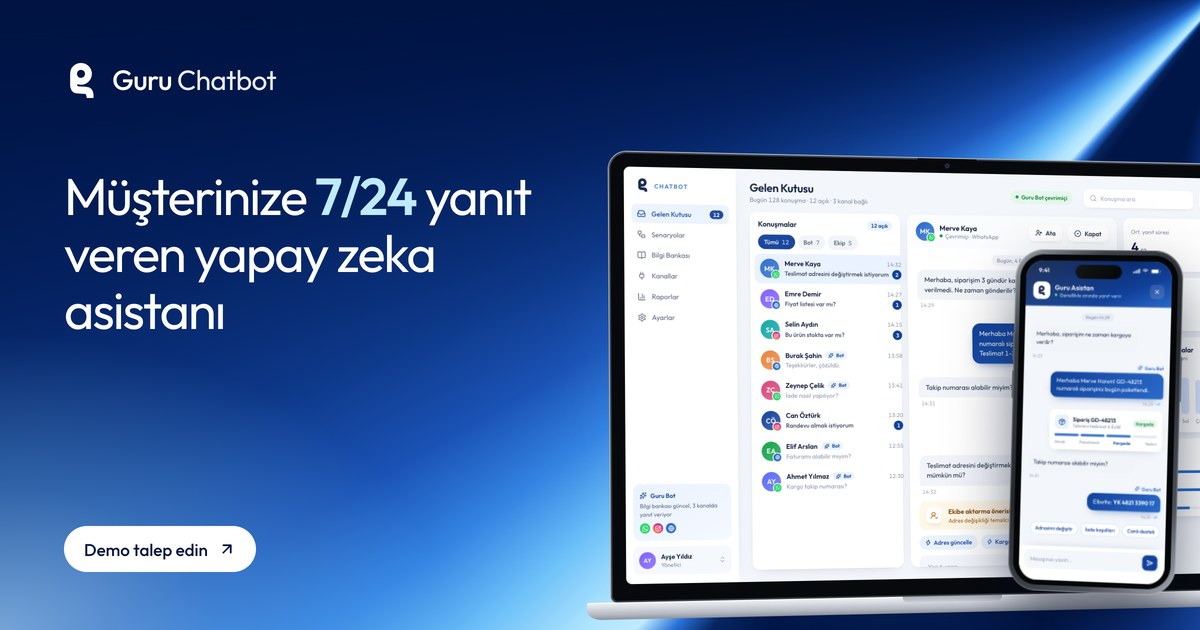
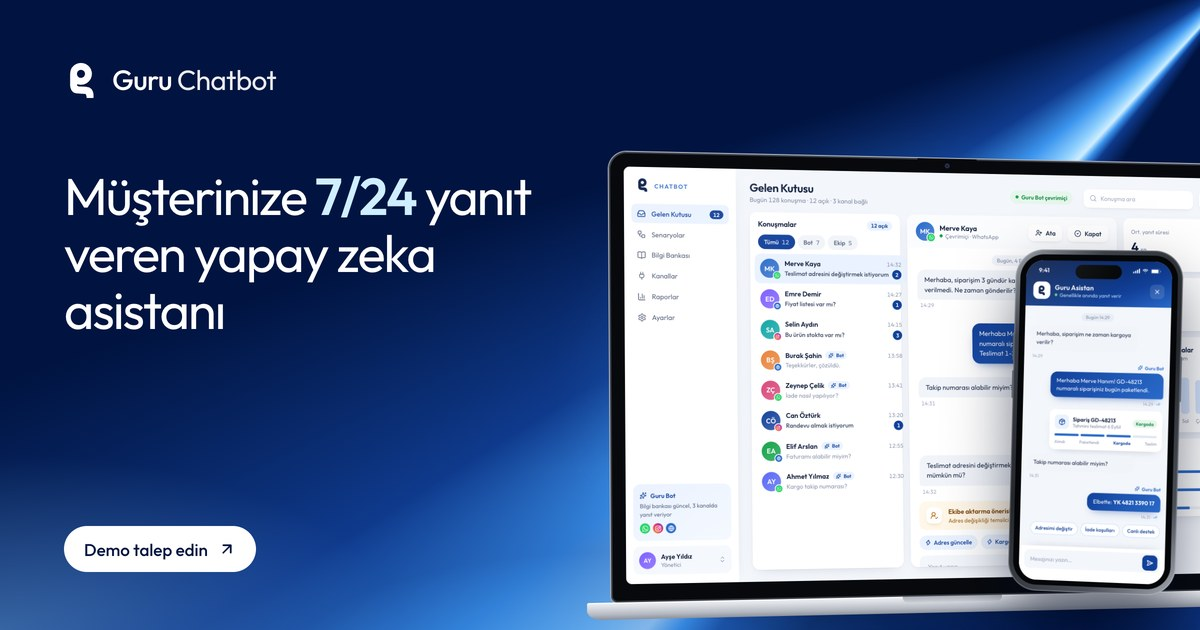
Görseller v4: App Store kapakları, ürüne özgü tonlar, video kapakları
- Her ürün için App Store tarzı dikey kapak (4:5): ana sayfa ürün kartları
  ve ürün sayfasındaki Diğer Ürünlerimiz / Pakete Dahil kartlarında
- Panelde Ürünler > Kapak görseli alanı; ilk Postgres geçişi yeniden üretildi
- Her ürünün kendi tonu (Chatbot mavi, CRM indigo, Operation turkuaz,
  Business lacivert): giriş, özellik, paylaşım görselleri ve kapaklar
- Chatbot gelen kutusu görseli yeniden: kartlar içeriğin üstüne binmiyor
- Business genel bakışta gösterge kendi yerinden kalkıyor; pano kırpımları
  daha büyük ve okunur; avatar harfleri ortalandı, kanal rozetleri küçüldü
- Ürün turu videolarına tasarlanmış kapak görselleri

diff --git a/src/migrations/20261008_211700_ilk_kurulum.ts b/src/migrations/20261008_211700_ilk_kurulum.ts
@@ -288,6 +288,7 @@ export async function up({ db, payload, req }: MigrateUpArgs): Promise<void> {
   	"desc" varchar,
   	"screenshot_id" integer,
   	"hero_visual_id" integer,
+  	"cover_id" integer,
   	"og_image_id" integer,
   	"hero_eyebrow" varchar,
   	"hero_headline" varchar,
@@ -447,6 +448,7 @@ export async function up({ db, payload, req }: MigrateUpArgs): Promise<void> {
   	"version_desc" varchar,
   	"version_screenshot_id" integer,
   	"version_hero_visual_id" integer,
+  	"version_cover_id" integer,
   	"version_og_image_id" integer,
   	"version_hero_eyebrow" varchar,
   	"version_hero_headline" varchar,
@@ -857,6 +859,7 @@ export async function up({ db, payload, req }: MigrateUpArgs): Promise<void> {
   ALTER TABLE "products_seo_keywords" ADD CONSTRAINT "products_seo_keywords_parent_id_fk" FOREIGN KEY ("_parent_id") REFERENCES "public"."products"("id") ON DELETE cascade ON UPDATE no action;
   ALTER TABLE "products" ADD CONSTRAINT "products_screenshot_id_media_id_fk" FOREIGN KEY ("screenshot_id") REFERENCES "public"."media"("id") ON DELETE set null ON UPDATE no action;
   ALTER TABLE "products" ADD CONSTRAINT "products_hero_visual_id_media_id_fk" FOREIGN KEY ("hero_visual_id") REFERENCES "public"."media"("id") ON DELETE set null ON UPDATE no action;
+  ALTER TABLE "products" ADD CONSTRAINT "products_cover_id_media_id_fk" FOREIGN KEY ("cover_id") REFERENCES "public"."media"("id") ON DELETE set null ON UPDATE no action;
   ALTER TABLE "products" ADD CONSTRAINT "products_og_image_id_media_id_fk" FOREIGN KEY ("og_image_id") REFERENCES "public"."media"("id") ON DELETE set null ON UPDATE no action;
   ALTER TABLE "products" ADD CONSTRAINT "products_tour_poster_id_media_id_fk" FOREIGN KEY ("tour_poster_id") REFERENCES "public"."media"("id") ON DELETE set null ON UPDATE no action;
   ALTER TABLE "products_rels" ADD CONSTRAINT "products_rels_parent_fk" FOREIGN KEY ("parent_id") REFERENCES "public"."products"("id") ON DELETE cascade ON UPDATE no action;
@@ -879,6 +882,7 @@ export async function up({ db, payload, req }: MigrateUpArgs): Promise<void> {
   ALTER TABLE "_products_v" ADD CONSTRAINT "_products_v_parent_id_products_id_fk" FOREIGN KEY ("parent_id") REFERENCES "public"."products"("id") ON DELETE set null ON UPDATE no action;
   ALTER TABLE "_products_v" ADD CONSTRAINT "_products_v_version_screenshot_id_media_id_fk" FOREIGN KEY ("version_screenshot_id") REFERENCES "public"."media"("id") ON DELETE set null ON UPDATE no action;
   ALTER TABLE "_products_v" ADD CONSTRAINT "_products_v_version_hero_visual_id_media_id_fk" FOREIGN KEY ("version_hero_visual_id") REFERENCES "public"."media"("id") ON DELETE set null ON UPDATE no action;
+  ALTER TABLE "_products_v" ADD CONSTRAINT "_products_v_version_cover_id_media_id_fk" FOREIGN KEY ("version_cover_id") REFERENCES "public"."media"("id") ON DELETE set null ON UPDATE no action;
   ALTER TABLE "_products_v" ADD CONSTRAINT "_products_v_version_og_image_id_media_id_fk" FOREIGN KEY ("version_og_image_id") REFERENCES "public"."media"("id") ON DELETE set null ON UPDATE no action;
   ALTER TABLE "_products_v" ADD CONSTRAINT "_products_v_version_tour_poster_id_media_id_fk" FOREIGN KEY ("version_tour_poster_id") REFERENCES "public"."media"("id") ON DELETE set null ON UPDATE no action;
   ALTER TABLE "_products_v_rels" ADD CONSTRAINT "_products_v_rels_parent_fk" FOREIGN KEY ("parent_id") REFERENCES "public"."_products_v"("id") ON DELETE cascade ON UPDATE no action;
@@ -987,6 +991,7 @@ export async function up({ db, payload, req }: MigrateUpArgs): Promise<void> {
   CREATE INDEX "products_seo_keywords_parent_id_idx" ON "products_seo_keywords" USING btree ("_parent_id");
   CREATE INDEX "products_screenshot_idx" ON "products" USING btree ("screenshot_id");
   CREATE INDEX "products_hero_visual_idx" ON "products" USING btree ("hero_visual_id");
+  CREATE INDEX "products_cover_idx" ON "products" USING btree ("cover_id");
   CREATE INDEX "products_og_image_idx" ON "products" USING btree ("og_image_id");
   CREATE INDEX "products_tour_tour_poster_idx" ON "products" USING btree ("tour_poster_id");
   CREATE UNIQUE INDEX "products_slug_idx" ON "products" USING btree ("slug");
@@ -1029,6 +1034,7 @@ export async function up({ db, payload, req }: MigrateUpArgs): Promise<void> {
   CREATE INDEX "_products_v_parent_idx" ON "_products_v" USING btree ("parent_id");
   CREATE INDEX "_products_v_version_version_screenshot_idx" ON "_products_v" USING btree ("version_screenshot_id");
   CREATE INDEX "_products_v_version_version_hero_visual_idx" ON "_products_v" USING btree ("version_hero_visual_id");
+  CREATE INDEX "_products_v_version_version_cover_idx" ON "_products_v" USING btree ("version_cover_id");
   CREATE INDEX "_products_v_version_version_og_image_idx" ON "_products_v" USING btree ("version_og_image_id");
   CREATE INDEX "_products_v_version_tour_version_tour_poster_idx" ON "_products_v" USING btree ("version_tour_poster_id");
   CREATE INDEX "_products_v_version_version_slug_idx" ON "_products_v" USING btree ("version_slug");

diff --git a/src/lib/product-extras.ts b/src/lib/product-extras.ts
@@ -21,6 +21,8 @@ export type ProductExtras = {
   trust: string[];
   /** Marka kimliğinde ürün görseli (giriş, 4:3) */
   heroVisual: { src: string; alt: string; w: number; h: number };
+  /** App Store tarzı dikey kapak (4:5, ürün kartlarında) */
+  cover: { src: string; alt: string; w: number; h: number };
   /** Sosyal paylaşım görseli (1200x630) */
   ogImage: string;
   /** Ürün turu videosu */
@@ -39,6 +41,7 @@ const V = (slug: string, n: number, alt: string): ShowcaseItem["image"] => ({
   h: 900,
 });
 const hero = (slug: string, alt: string) => ({ src: `/products/visuals/${slug}-hero.webp`, alt, w: 1600, h: 1200 });
+const cover = (slug: string, alt: string) => ({ src: `/products/covers/${slug}.webp`, alt, w: 1200, h: 1500 });
 const video = (slug: string, name: string) => ({
   src: `/video/products/${slug}.mp4`,
   poster: `/video/products/${slug}.jpg`,
@@ -49,6 +52,7 @@ export const productExtras: Record<string, ProductExtras> = {
   "guru-chatbot": {
     trust: ["Standart kurulum aynı gün", "Web, WhatsApp ve Instagram", "Türkçe destek dahil"],
     heroVisual: hero("guru-chatbot", "Guru Chatbot dizüstü ve telefonda: gelen kutusu, web sitesi asistanı ve Guru Bot'un yanıtladığı WhatsApp mesajı"),
+    cover: cover("guru-chatbot", "Guru Chatbot kapağı: “Müşterinize 7/24 anında yanıt” başlığı ve telefonda web sitesi asistanı"),
     ogImage: "/products/og/guru-chatbot.jpg",
     video: video("guru-chatbot", "Guru Chatbot"),
     showcase: [
@@ -111,6 +115,7 @@ export const productExtras: Record<string, ProductExtras> = {
   "guru-crm": {
     trust: ["Temel kurulum bir hafta", "Excel ve CRM verisi aktarımı", "Kayıt sayısında sınır yok"],
     heroVisual: hero("guru-crm", "Guru CRM dizüstü ve telefonda: satış hattı, fırsat ayrıntısı ve kazanılan fırsat bildirimi"),
+    cover: cover("guru-crm", "Guru CRM kapağı: “Her fırsat tek ekranda” başlığı ve telefonda fırsat ayrıntısı"),
     ogImage: "/products/og/guru-crm.jpg",
     video: video("guru-crm", "Guru CRM"),
     showcase: [
@@ -173,6 +178,7 @@ export const productExtras: Record<string, ProductExtras> = {
   "guru-operation": {
     trust: ["İlk gün görev takibiyle başlayın", "Ekip büyüklüğü sınırı yok", "Guru CRM ile bütünleşik"],
     heroVisual: hero("guru-operation", "Guru Operation dizüstü ve telefonda: görev panosu, zaman çizelgesi ve kontrolden geçen görev bildirimi"),
+    cover: cover("guru-operation", "Guru Operation kapağı: “Her iş görünür ve takipte” başlığı ve telefonda günün görevleri"),
     ogImage: "/products/og/guru-operation.jpg",
     video: video("guru-operation", "Guru Operation"),
     showcase: [
@@ -235,6 +241,7 @@ export const productExtras: Record<string, ProductExtras> = {
   "guru-business": {
     trust: ["Üç modül, tek giriş", "İlk modül iki haftada canlıda", "Size atanan müşteri başarı yöneticisi"],
     heroVisual: hero("guru-business", "Guru Business dizüstü ve telefonda: yönetici panosu ve günlük özet bildirimi"),
+    cover: cover("guru-business", "Guru Business kapağı: “İşletmeniz tek panelde” başlığı ve telefonda yönetici özeti"),
     ogImage: "/products/og/guru-business.jpg",
     video: video("guru-business", "Guru Business"),
     bundle: ["guru-chatbot", "guru-crm", "guru-operation"],

diff --git a/src/lib/content.ts b/src/lib/content.ts
@@ -66,6 +66,8 @@ export type ProductView = {
   trust: string[];
   /** Giriş görseli; yoksa ekran görüntüsü */
   heroVisual: WorkImage;
+  /** App Store tarzı dikey kapak (4:5); yoksa giriş görseli */
+  cover: WorkImage;
   /** Paylaşım görseli adresi; yoksa sitenin genel görseli */
   ogImage: string;
   tour: { title: string; src: string; poster: string } | null;
@@ -151,6 +153,7 @@ function extrasView(slug: string, name: string, screenshot: WorkImage) {
     return {
       trust: [],
       heroVisual: screenshot,
+      cover: screenshot,
       ogImage: "/og.jpg",
       tour: null,
       showcase: [],
@@ -162,6 +165,7 @@ function extrasView(slug: string, name: string, screenshot: WorkImage) {
   return {
     trust: x.trust,
     heroVisual: x.heroVisual,
+    cover: x.cover,
     ogImage: x.ogImage,
     tour: { title: x.video.title || `${name} Ürün Turu`, src: x.video.src, poster: x.video.poster },
     showcase: x.showcase,
@@ -224,6 +228,7 @@ function fromProduct(p: Product): ProductView {
     integrations: texts(p.integrations),
     trust: texts(p.hero?.trust),
     heroVisual: toImage(p.heroVisual, `${p.name} paneli`) ?? image,
+    cover: toImage(p.cover, `${p.name} kapağı`) ?? productExtras[p.slug ?? ""]?.cover ?? toImage(p.heroVisual, `${p.name} paneli`) ?? image,
     ogImage: (typeof p.ogImage === "object" && p.ogImage?.url) || productExtras[p.slug ?? ""]?.ogImage || "/og.jpg",
     tour:
       p.tour?.show !== false && p.tour?.videoUrl

diff --git a/src/components/home/ProductsGrid.tsx b/src/components/home/ProductsGrid.tsx
@@ -24,14 +24,14 @@ export async function ProductsGrid({ title, lead }: { title: string; lead: strin
             return (
               <StaggerItem key={p.slug} className="h-full">
                 <Link href={`/urunler/${p.slug}`} className={cn(cardCls, cardHoverCls, "group flex h-full flex-col overflow-hidden")}>
-                  <div className="bg-[#e9eff8] px-4 pt-4">
+                  {/* App Store tarzı dikey kapak (panel: Ürünler > Kapak görseli) */}
+                  <div className="relative aspect-[4/5] overflow-hidden bg-navy">
                     <Image
-                      src={p.image.src}
-                      alt={p.image.alt}
-                      width={p.image.w}
-                      height={p.image.h}
-                      sizes="(min-width: 1024px) 280px, (min-width: 640px) 45vw, 90vw"
-                      className="block h-auto w-full rounded-t-lg shadow-[0_10px_24px_-14px_rgb(1_20_65/0.6)] transition-transform duration-500 group-hover:-translate-y-1"
+                      src={p.cover.src}
+                      alt={p.cover.alt}
+                      fill
+                      sizes="(min-width: 1280px) 290px, (min-width: 1024px) 23vw, (min-width: 640px) 45vw, 90vw"
+                      className="object-cover transition-transform duration-700 ease-out group-hover:scale-[1.03]"
                     />
                   </div>
                   <div className="p-5">

diff --git a/src/components/pages/urunler/ProductSections.tsx b/src/components/pages/urunler/ProductSections.tsx
@@ -247,10 +247,10 @@ export function IncludedGrid({ product }: { product: ProductView }) {
 export function ProductCardLink({ product, cta = "İncele" }: { product: ProductView; cta?: string }) {
   return (
     <Link href={`/urunler/${product.slug}`} className={cn(cardCls, cardHoverCls, "group flex h-full flex-col overflow-hidden")}>
-      <div className="relative aspect-[4/3] overflow-hidden bg-soft">
+      <div className="relative aspect-[4/5] overflow-hidden bg-navy">
         <Image
-          src={product.heroVisual.src}
-          alt=""
+          src={product.cover.src}
+          alt={product.cover.alt}
           fill
           sizes="(min-width: 1024px) 390px, (min-width: 640px) 50vw, 100vw"
           className="object-cover transition-transform duration-700 ease-out group-hover:scale-[1.03]"

diff --git a/src/payload/refresh-product-visuals.ts b/src/payload/refresh-product-visuals.ts
@@ -55,6 +55,13 @@ for (const p of docs) {
   const base = products.find((b) => b.slug === slug);
   if (!x || !base) continue;
   await replace(p.heroVisual, x.heroVisual, stem(x.heroVisual.src));
+  /* Kapak yeni alan: boşsa medyaya eklenip ürüne bağlanır */
+  if (p.cover) await replace(p.cover, x.cover, `${slug}-kapak`, `${slug}-kapak.webp`);
+  else {
+    const doc = await payload.create({ collection: "media", data: { alt: x.cover.alt }, filePath: copyTo(x.cover.src, `${slug}-kapak.webp`) });
+    await payload.update({ collection: "products", id: p.id, data: { cover: doc.id } });
+    updated++;
+  }
   for (const [i, s] of (p.showcase ?? []).entries()) {
     if (x.showcase[i]) await replace(s.image, x.showcase[i].image, stem(x.showcase[i].image.src));
   }

diff --git a/src/payload/collections/Products.ts b/src/payload/collections/Products.ts
@@ -65,6 +65,13 @@ export const Products: CollectionConfig = {
                   admin: { description: "Ürün sayfasının girişinde, marka ışık yelpazesiyle (4:3, 1600x1200)." },
                 },
                 {
+                  name: "cover",
+                  type: "upload",
+                  relationTo: "media",
+                  label: "Kapak görseli",
+                  admin: { description: "Ana sayfa ve ürün kartlarındaki App Store tarzı dikey kapak (4:5, 1200x1500)." },
+                },
+                {
                   name: "ogImage",
                   type: "upload",
                   relationTo: "media",

diff --git a/src/payload-types.ts b/src/payload-types.ts
@@ -397,6 +397,10 @@ export interface Product {
    */
   heroVisual?: (number | null) | Media;
   /**
+   * Ana sayfa ve ürün kartlarındaki App Store tarzı dikey kapak (4:5, 1200x1500).
+   */
+  cover?: (number | null) | Media;
+  /**
    * Sosyal medyada paylaşılınca görünen görsel (1200x630). Boşsa ürünün hazır paylaşım görseli kullanılır.
    */
   ogImage?: (number | null) | Media;
@@ -1106,6 +1110,7 @@ export interface ProductsSelect<T extends boolean = true> {
       };
   screenshot?: T;
   heroVisual?: T;
+  cover?: T;
   ogImage?: T;
   hero?:
     | T

diff --git a/src/migrations/index.ts b/src/migrations/index.ts
@@ -1,9 +1,9 @@
-import * as migration_20261008_084914_ilk_kurulum from './20261008_084914_ilk_kurulum';
+import * as migration_20261008_211700_ilk_kurulum from './20261008_211700_ilk_kurulum';
 
 export const migrations = [
   {
-    up: migration_20261008_084914_ilk_kurulum.up,
-    down: migration_20261008_084914_ilk_kurulum.down,
-    name: '20261008_084914_ilk_kurulum'
+    up: migration_20261008_211700_ilk_kurulum.up,
+    down: migration_20261008_211700_ilk_kurulum.down,
+    name: '20261008_211700_ilk_kurulum'
   },
 ];

diff --git a/src/payload/product-extras-data.ts b/src/payload/product-extras-data.ts
@@ -23,6 +23,7 @@ export async function productExtrasData(slug: string, mediaFor: Upload, idBySlug
   }
   return {
     heroVisual: await mediaFor({ src: x.heroVisual.src, alt: x.heroVisual.alt }),
+    cover: await mediaFor({ src: x.cover.src, alt: x.cover.alt }),
     /* Paylaşım görseli yüklenmez: medya webp'ye çevirir; varsayılan hazır jpg kullanılır */
     trust: rows(x.trust),
     tour: { show: true, title: x.video.title, videoUrl: x.video.src },

diff --git a/tools/gorsel-studyo/export.py b/tools/gorsel-studyo/export.py
@@ -6,9 +6,13 @@ HERE = os.path.dirname(os.path.abspath(__file__))
 O = os.path.join(HERE, "out")
 P = os.path.join(HERE, "..", "..", "public", "products")
 os.makedirs(os.path.join(P, "screens"), exist_ok=True)
+os.makedirs(os.path.join(P, "covers"), exist_ok=True)
+V = os.path.join(HERE, "..", "..", "public", "video", "products")
 for slug in ["guru-chatbot", "guru-crm", "guru-operation", "guru-business"]:
     for n, size in [("hero", (1600, 1200)), ("1", (1200, 900)), ("2", (1200, 900)), ("3", (1200, 900))]:
         Image.open(f"{O}/{slug}-{n}.png").convert("RGB").resize(size, Image.LANCZOS).save(f"{P}/visuals/{slug}-{n}.webp", "WEBP", quality=86, method=6)
     Image.open(f"{O}/{slug}-og.png").convert("RGB").resize((1200, 630), Image.LANCZOS).save(f"{P}/og/{slug}.jpg", "JPEG", quality=88, optimize=True, progressive=True)
     Image.open(f"{O}/raw-{slug.split('-')[1]}-desktop.png").convert("RGB").resize((1600, 1000), Image.LANCZOS).save(f"{P}/screens/{slug}.webp", "WEBP", quality=86, method=6)
+    Image.open(f"{O}/{slug}-cover.png").convert("RGB").resize((1200, 1500), Image.LANCZOS).save(f"{P}/covers/{slug}.webp", "WEBP", quality=86, method=6)
+    Image.open(f"{O}/{slug}-poster.png").convert("RGB").resize((1920, 1080), Image.LANCZOS).save(f"{V}/{slug}.jpg", "JPEG", quality=86, optimize=True, progressive=True)
 print("tamam")
